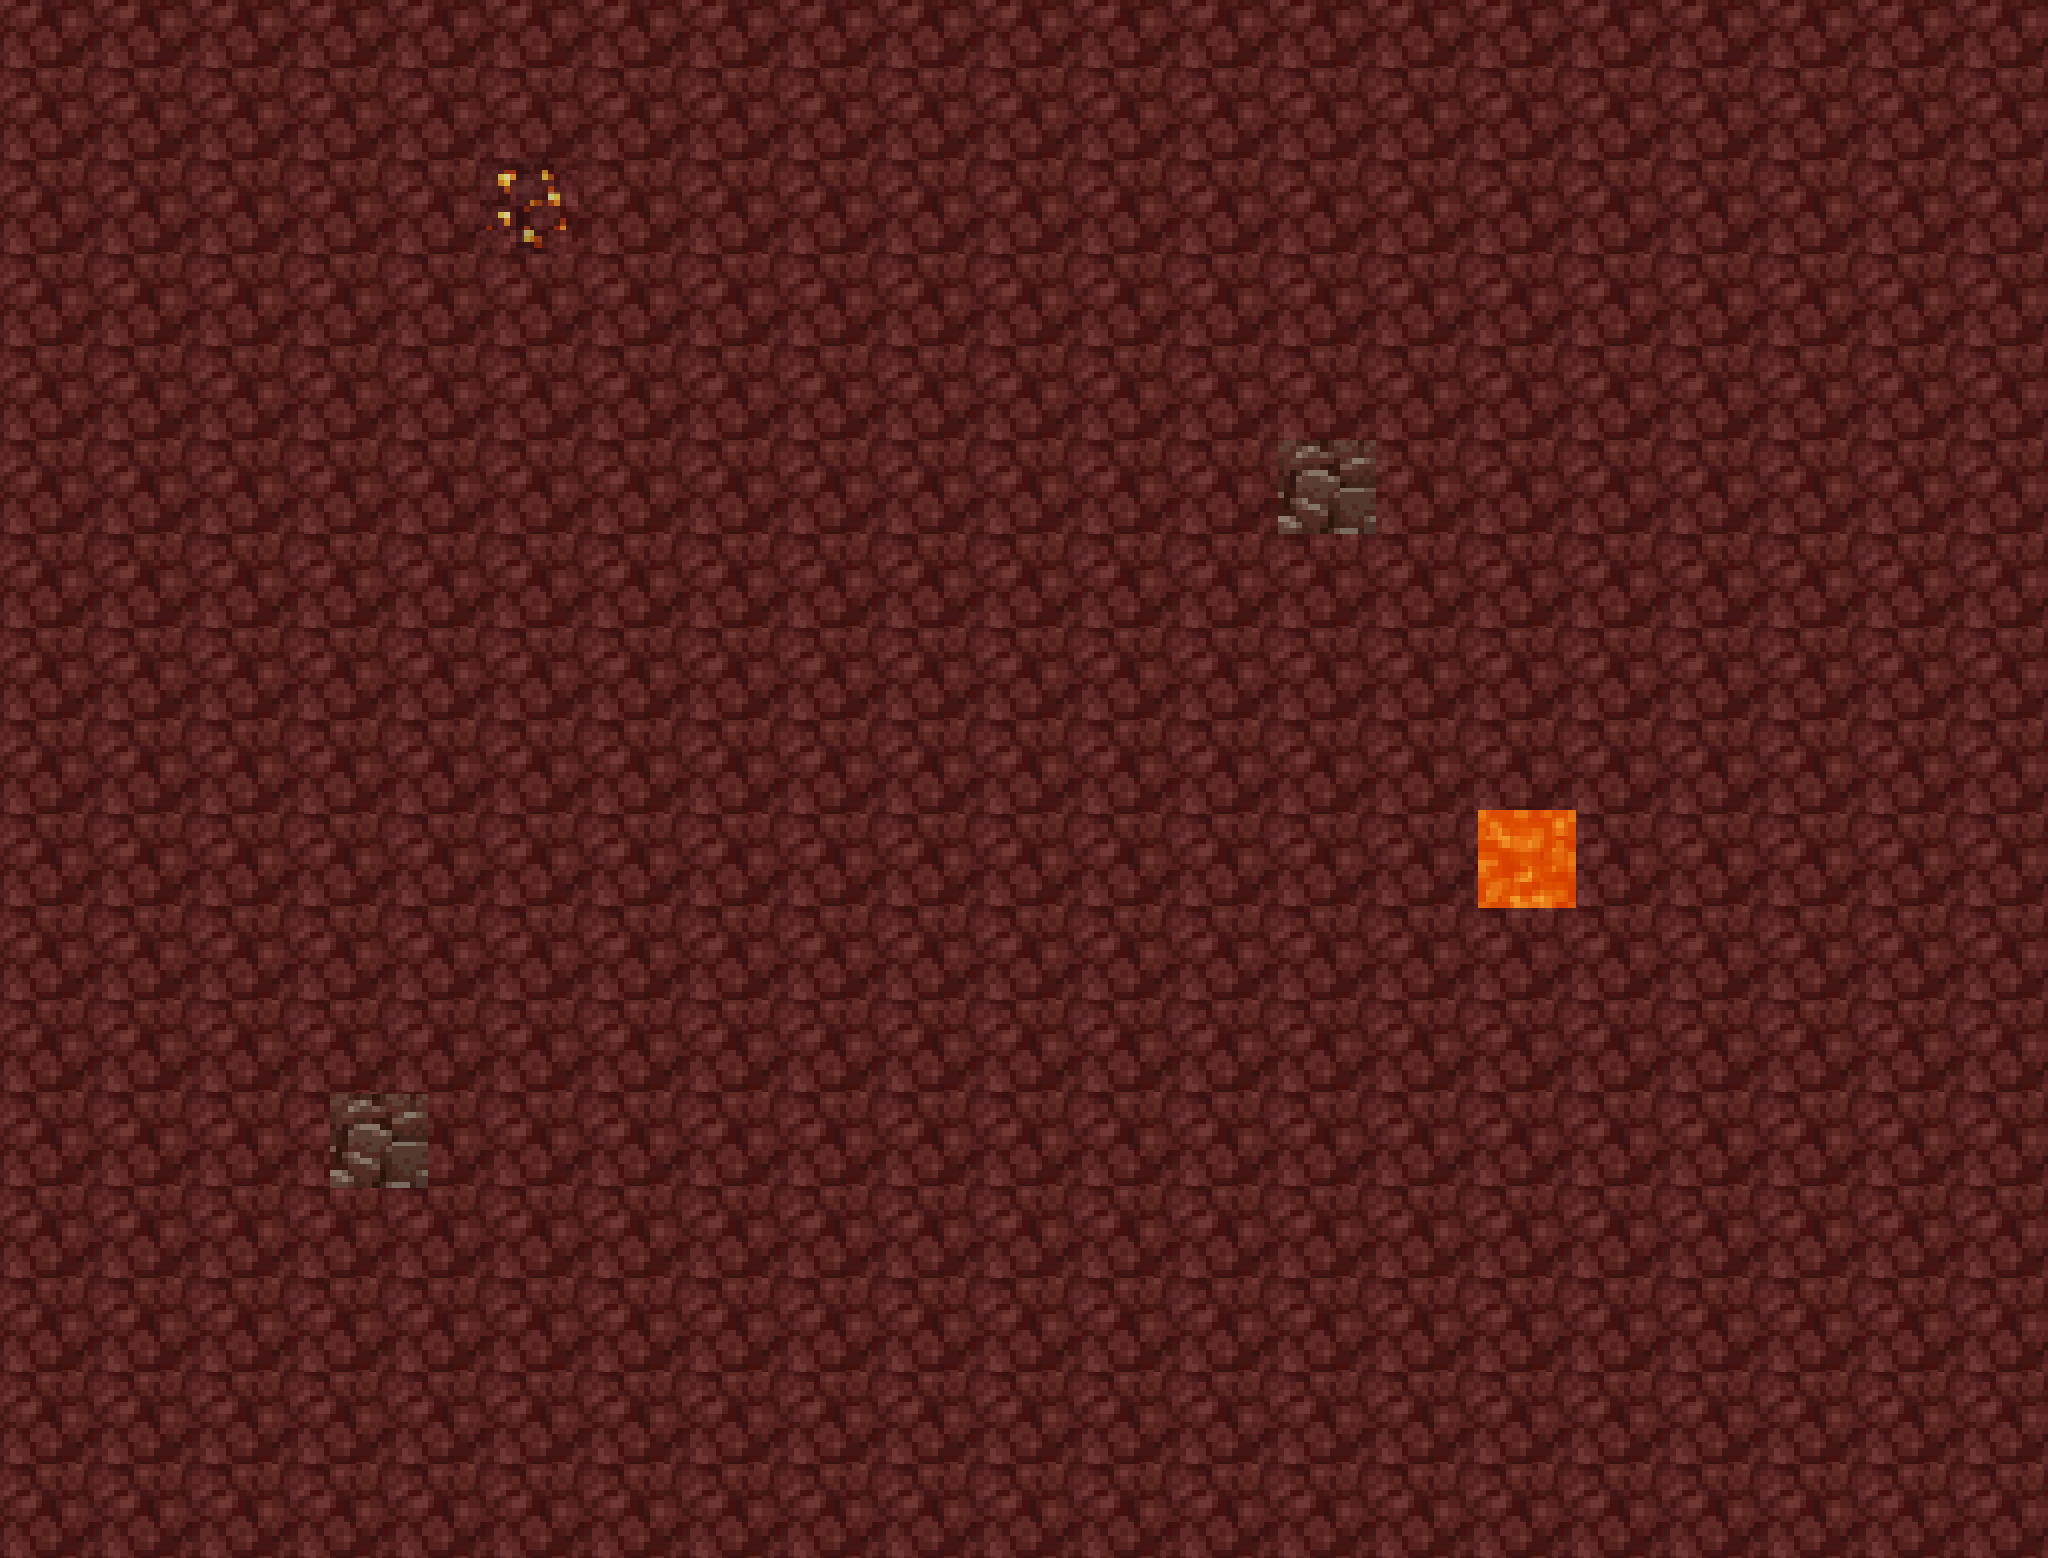
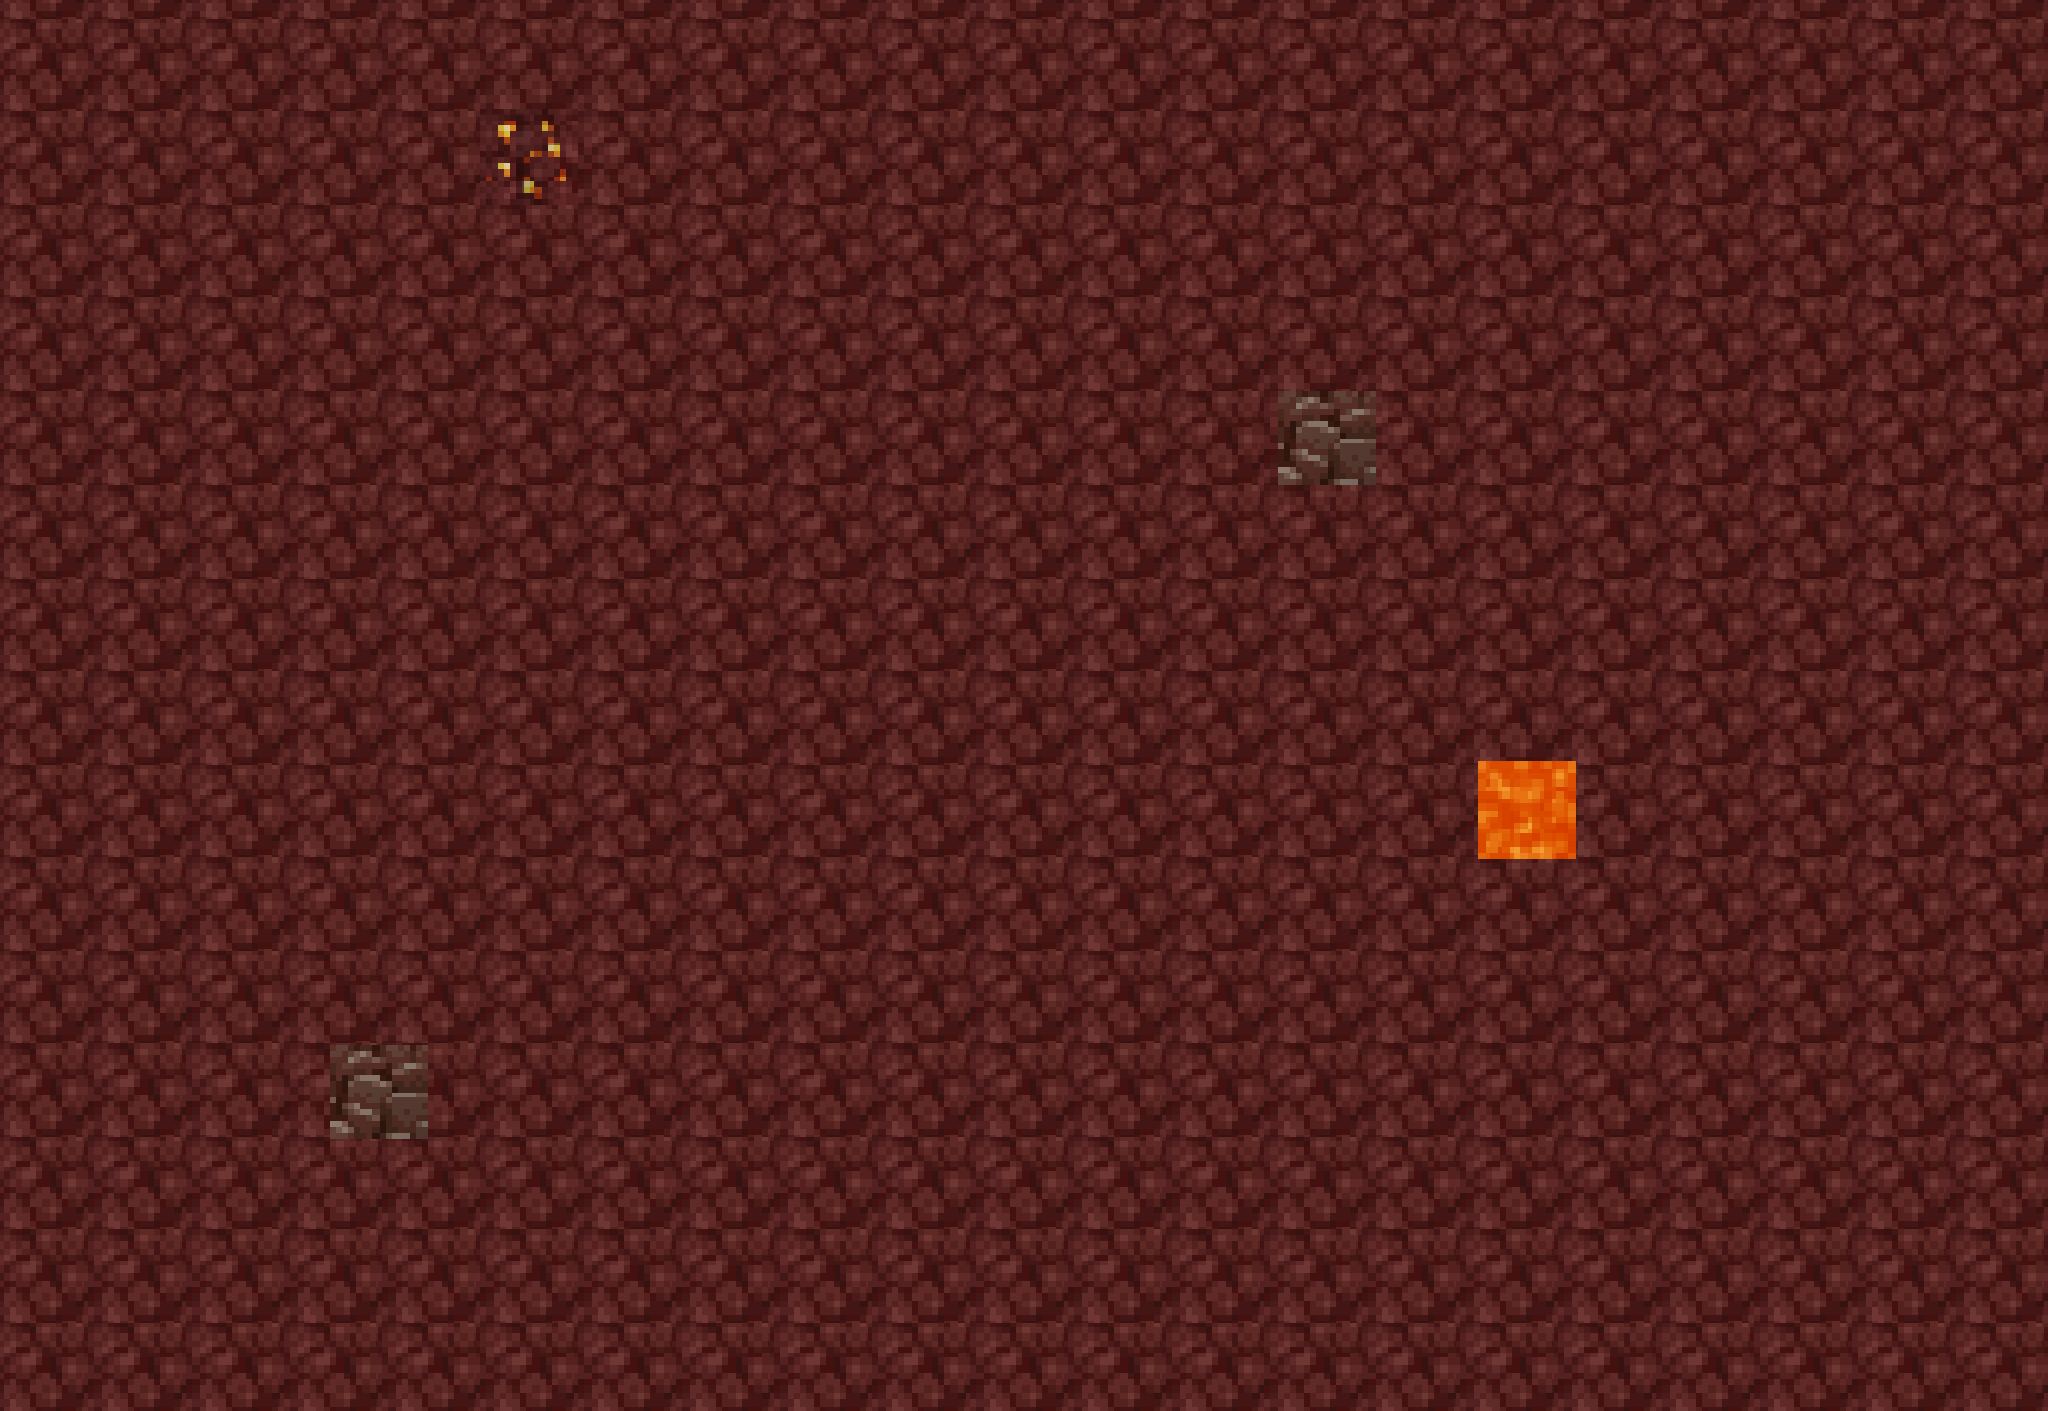
fix: background1 상단 49px·하단 98px 제거 (→1411px), background2 위치 조정

Changed region(s): [[0.0, 0.3742, 1.0, 0.9355], [0.0, 0.0, 1.0, 0.3118]]

diff --git a/style.css b/style.css
@@ -305,7 +305,7 @@ section p {
   background-image: url('background1.png'), url('background2.png');
   background-size: auto, auto;
   background-repeat: no-repeat, no-repeat;
-  background-position: center top, center 1558px;
+  background-position: center top, center 1411px;
   --ink: #ffffff;
   --muted: rgba(255, 255, 255, 0.78);
   --border: rgba(255, 255, 255, 0.22);
